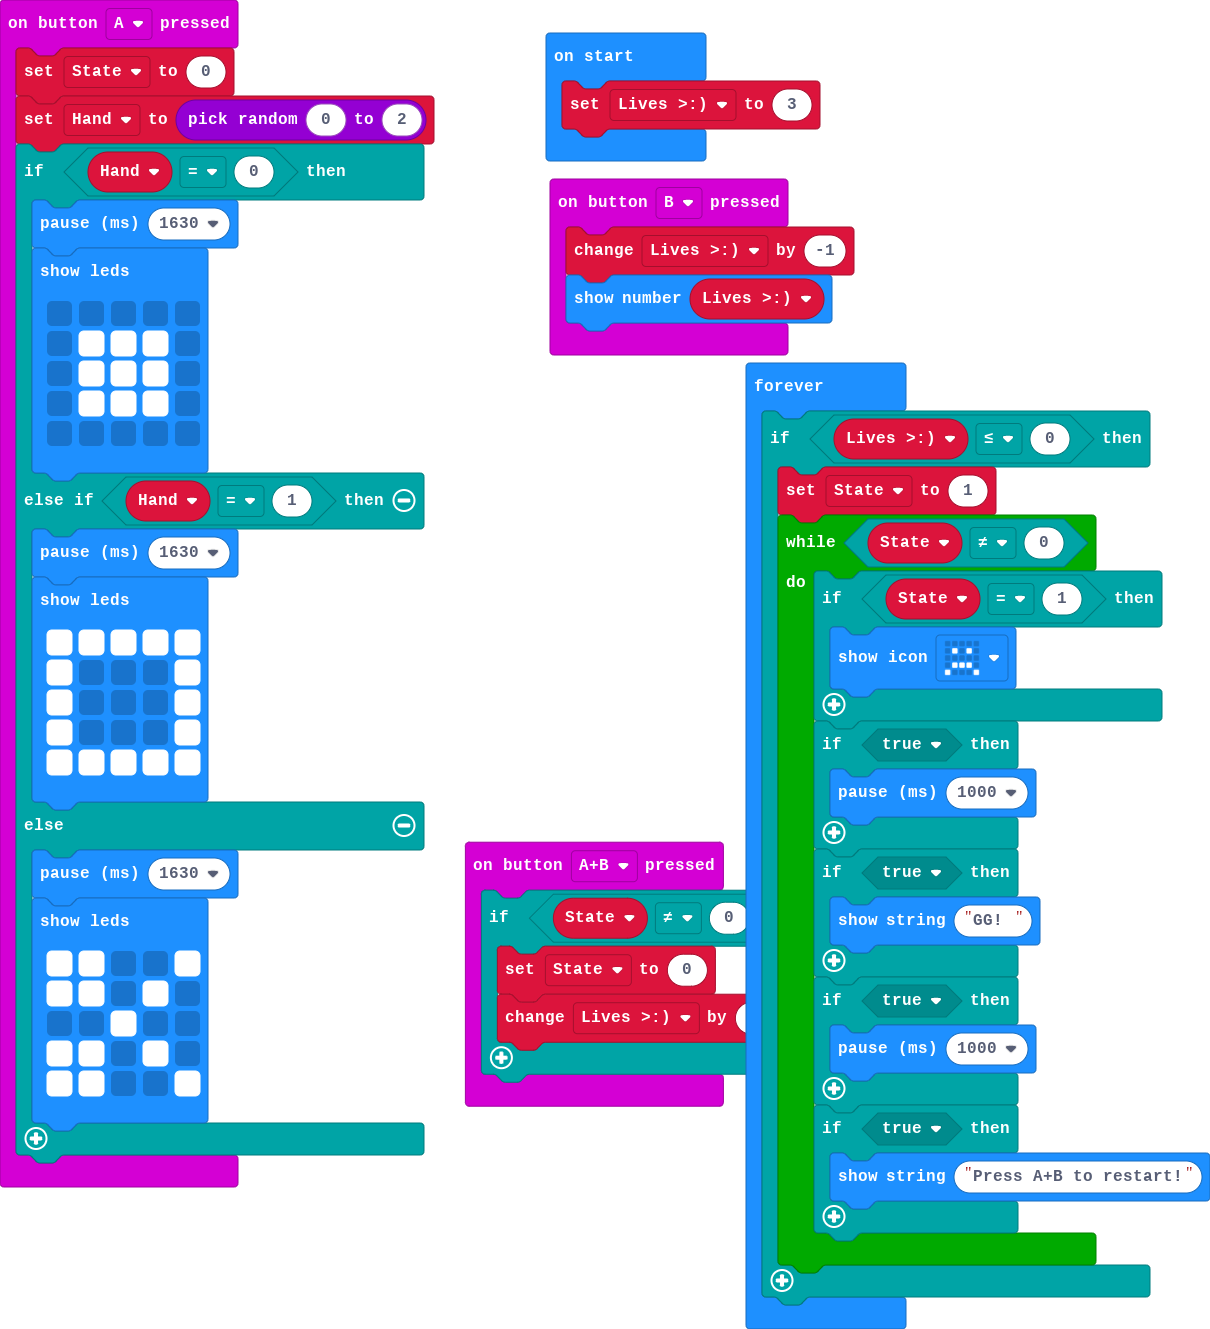
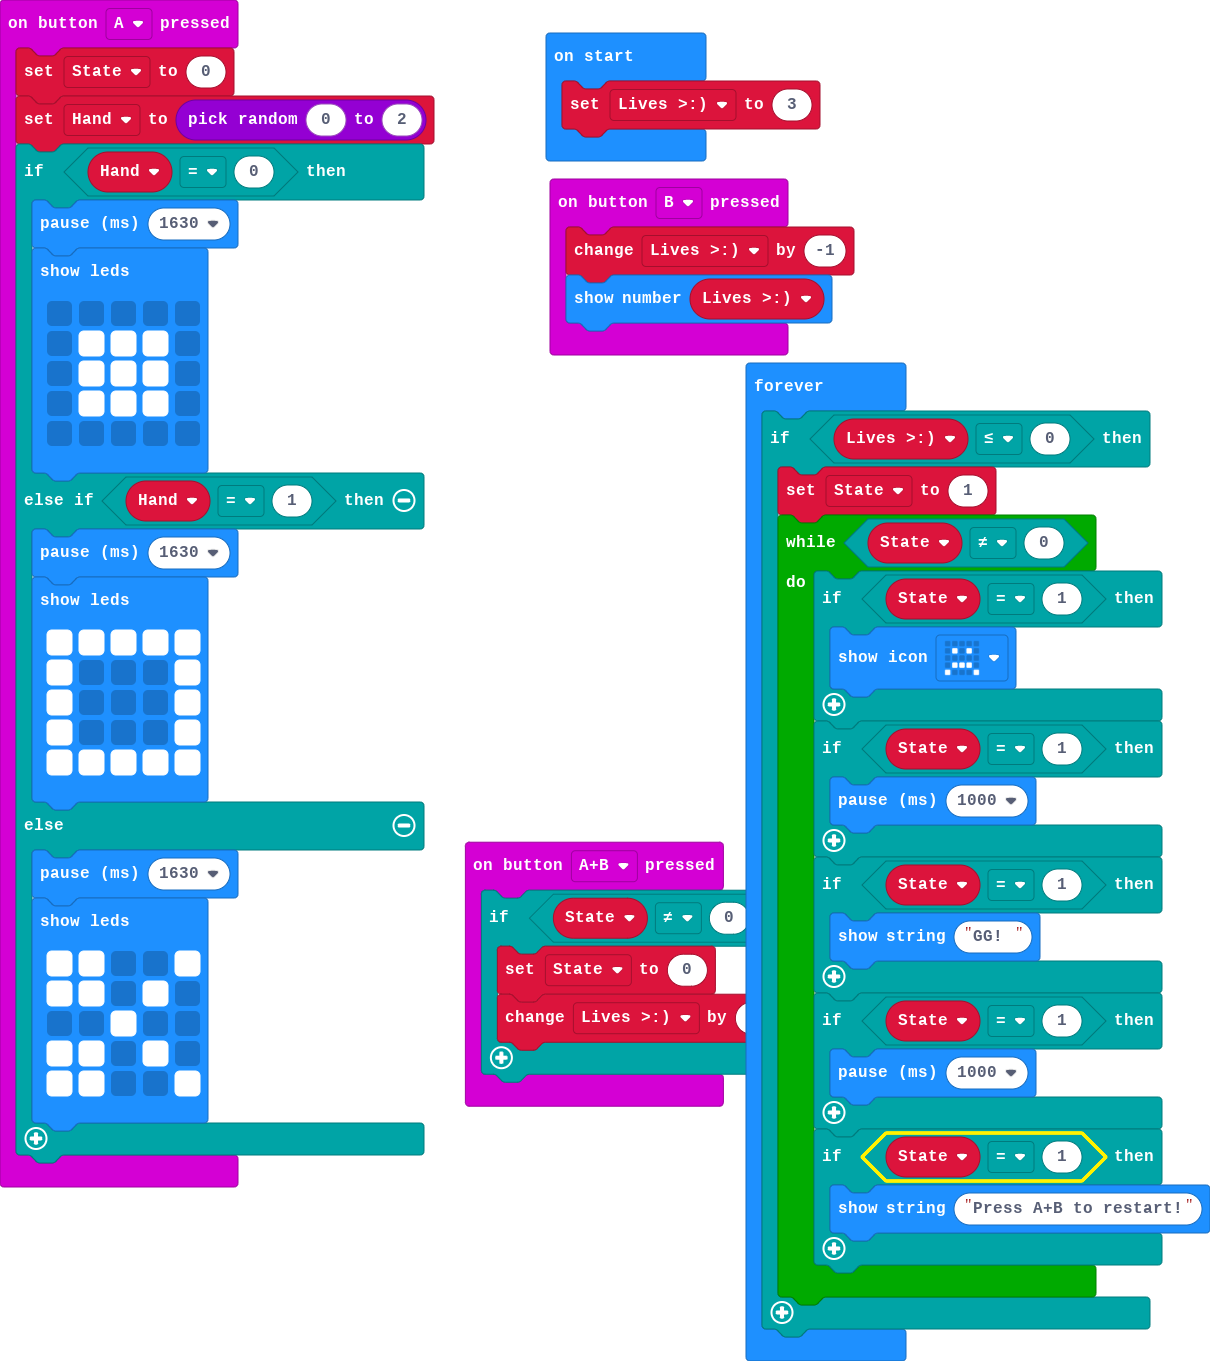
Interrupt code system

Changed region(s): [[0.4587, 0.0309, 1.0, 0.9564], [0.0, 0.0, 0.6421, 0.8947], [0.6421, 0.9564, 0.6727, 0.9872]]

diff --git a/main.ts b/main.ts
@@ -51,16 +51,16 @@ basic.forever(function () {
             if (State == 1) {
                 basic.showIcon(IconNames.Sad)
             }
-            if (true) {
+            if (State == 1) {
                 basic.pause(1000)
             }
-            if (true) {
+            if (State == 1) {
                 basic.showString("GG! ")
             }
-            if (true) {
+            if (State == 1) {
                 basic.pause(1000)
             }
-            if (true) {
+            if (State == 1) {
                 basic.showString("Press A+B to restart!")
             }
         }
